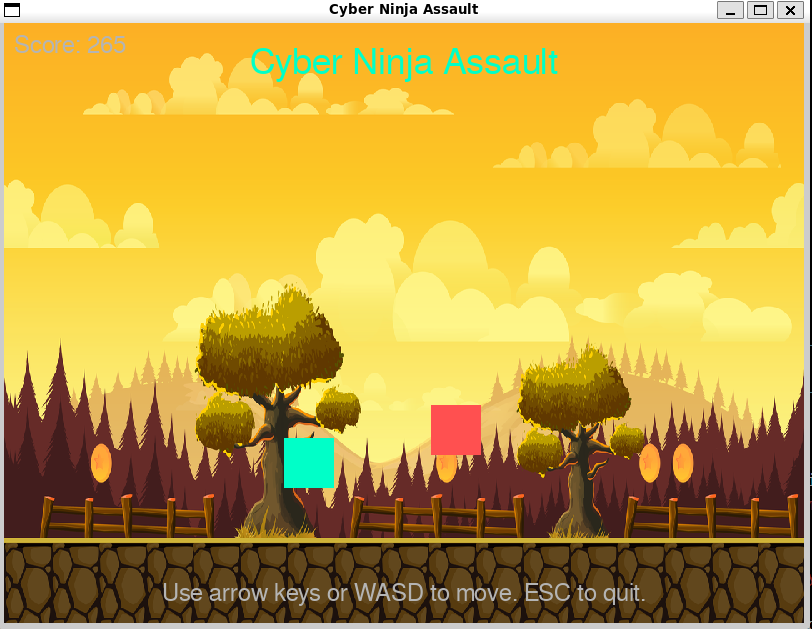
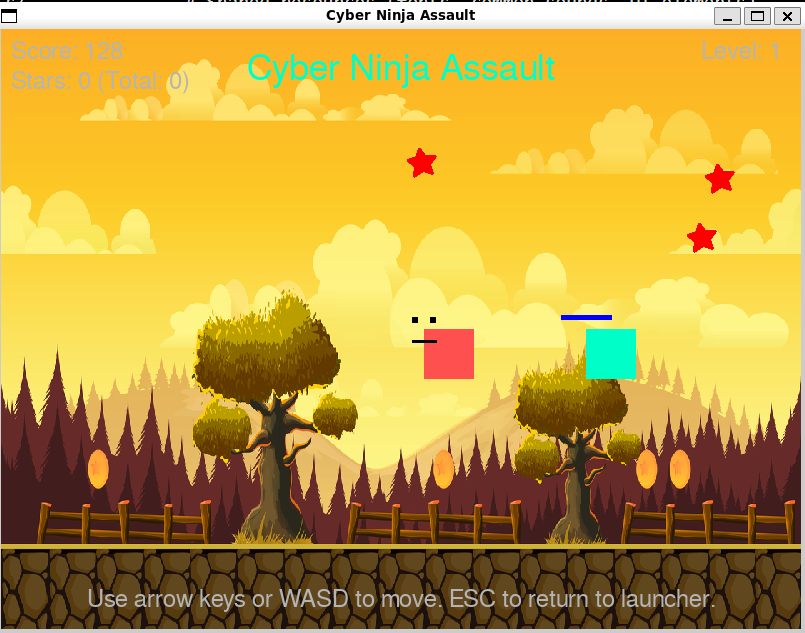
Update Cyber Ninja Assault with thick red stars and single enemy

diff --git a/blog_post.md b/blog_post.md
@@ -99,7 +99,7 @@ Setting up Arena Blitz on your system is straightforward:
 
 1. Clone the repository:
    ```
-   git clone https://github.com/yourusername/arena-blitz.git
+   git clone https://github.com/Md-Zubair677/arena-blitz.git
    cd arena-blitz
    ```
 
